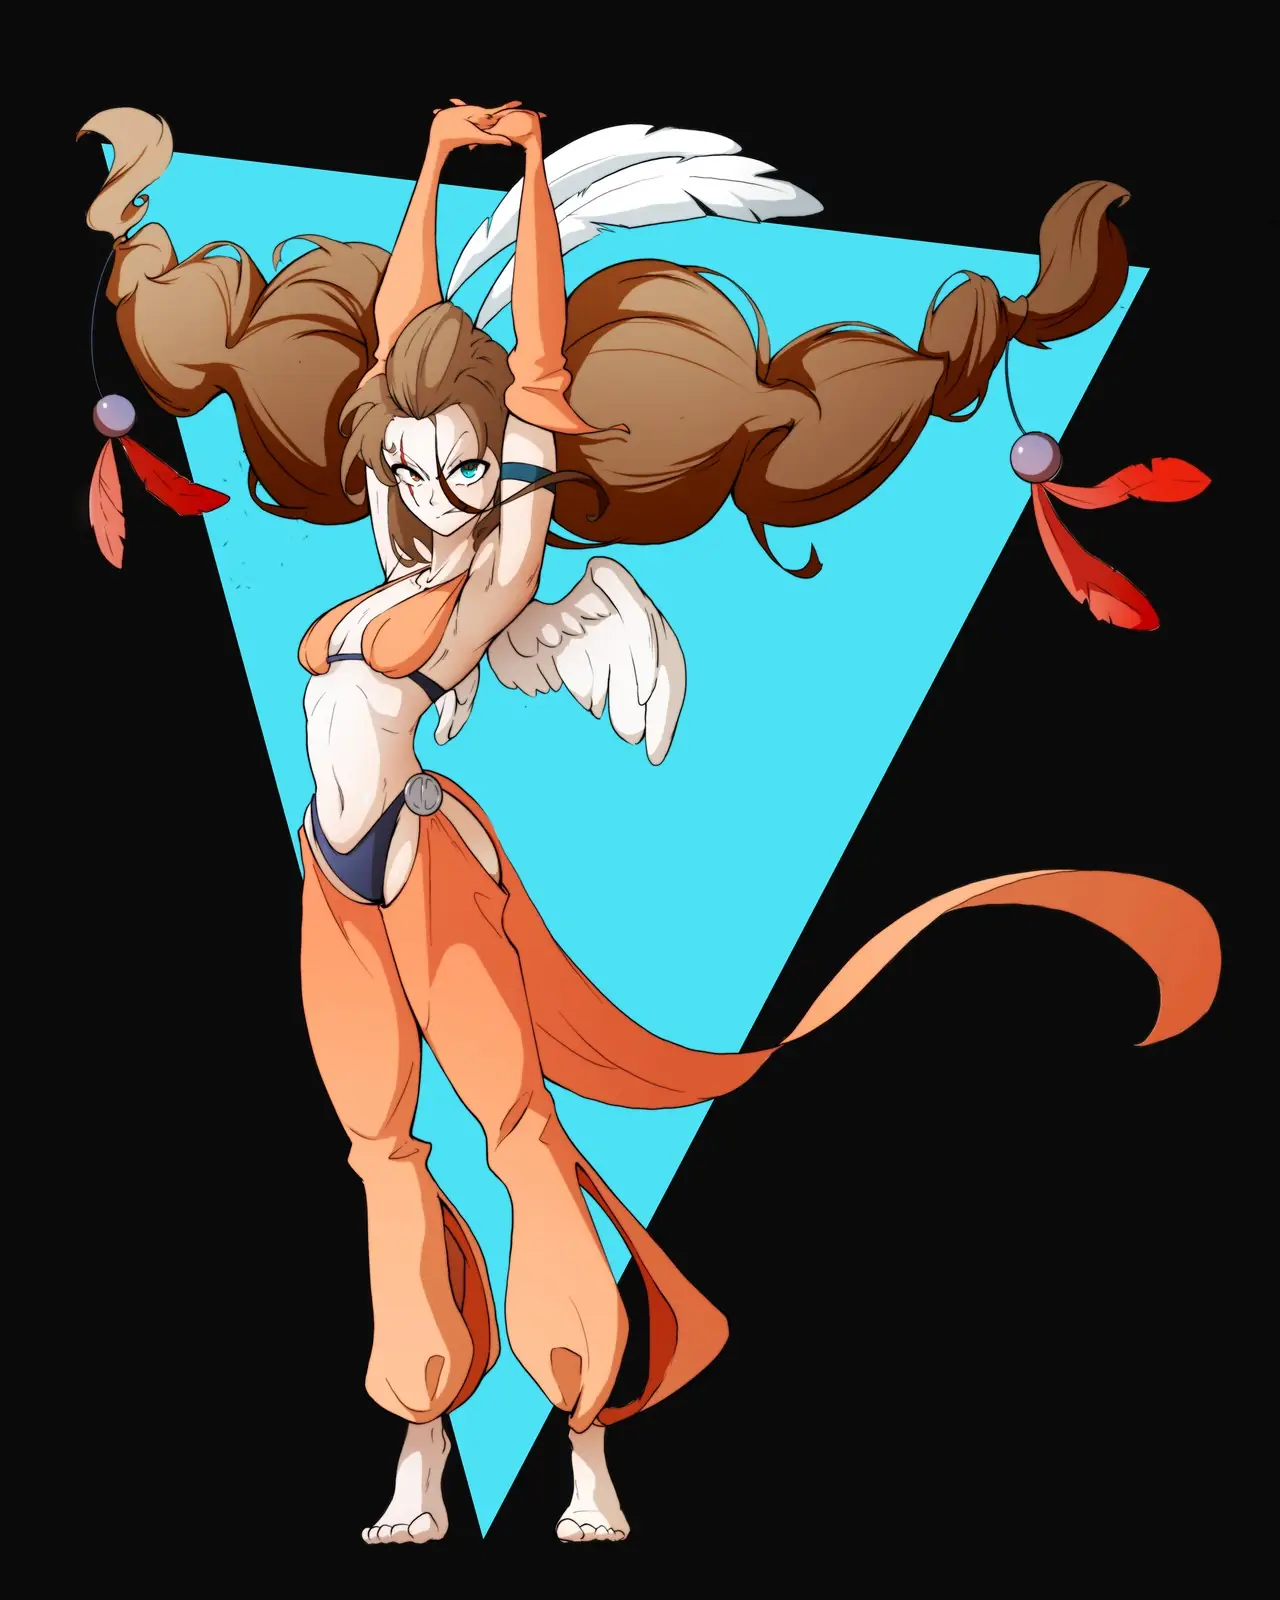
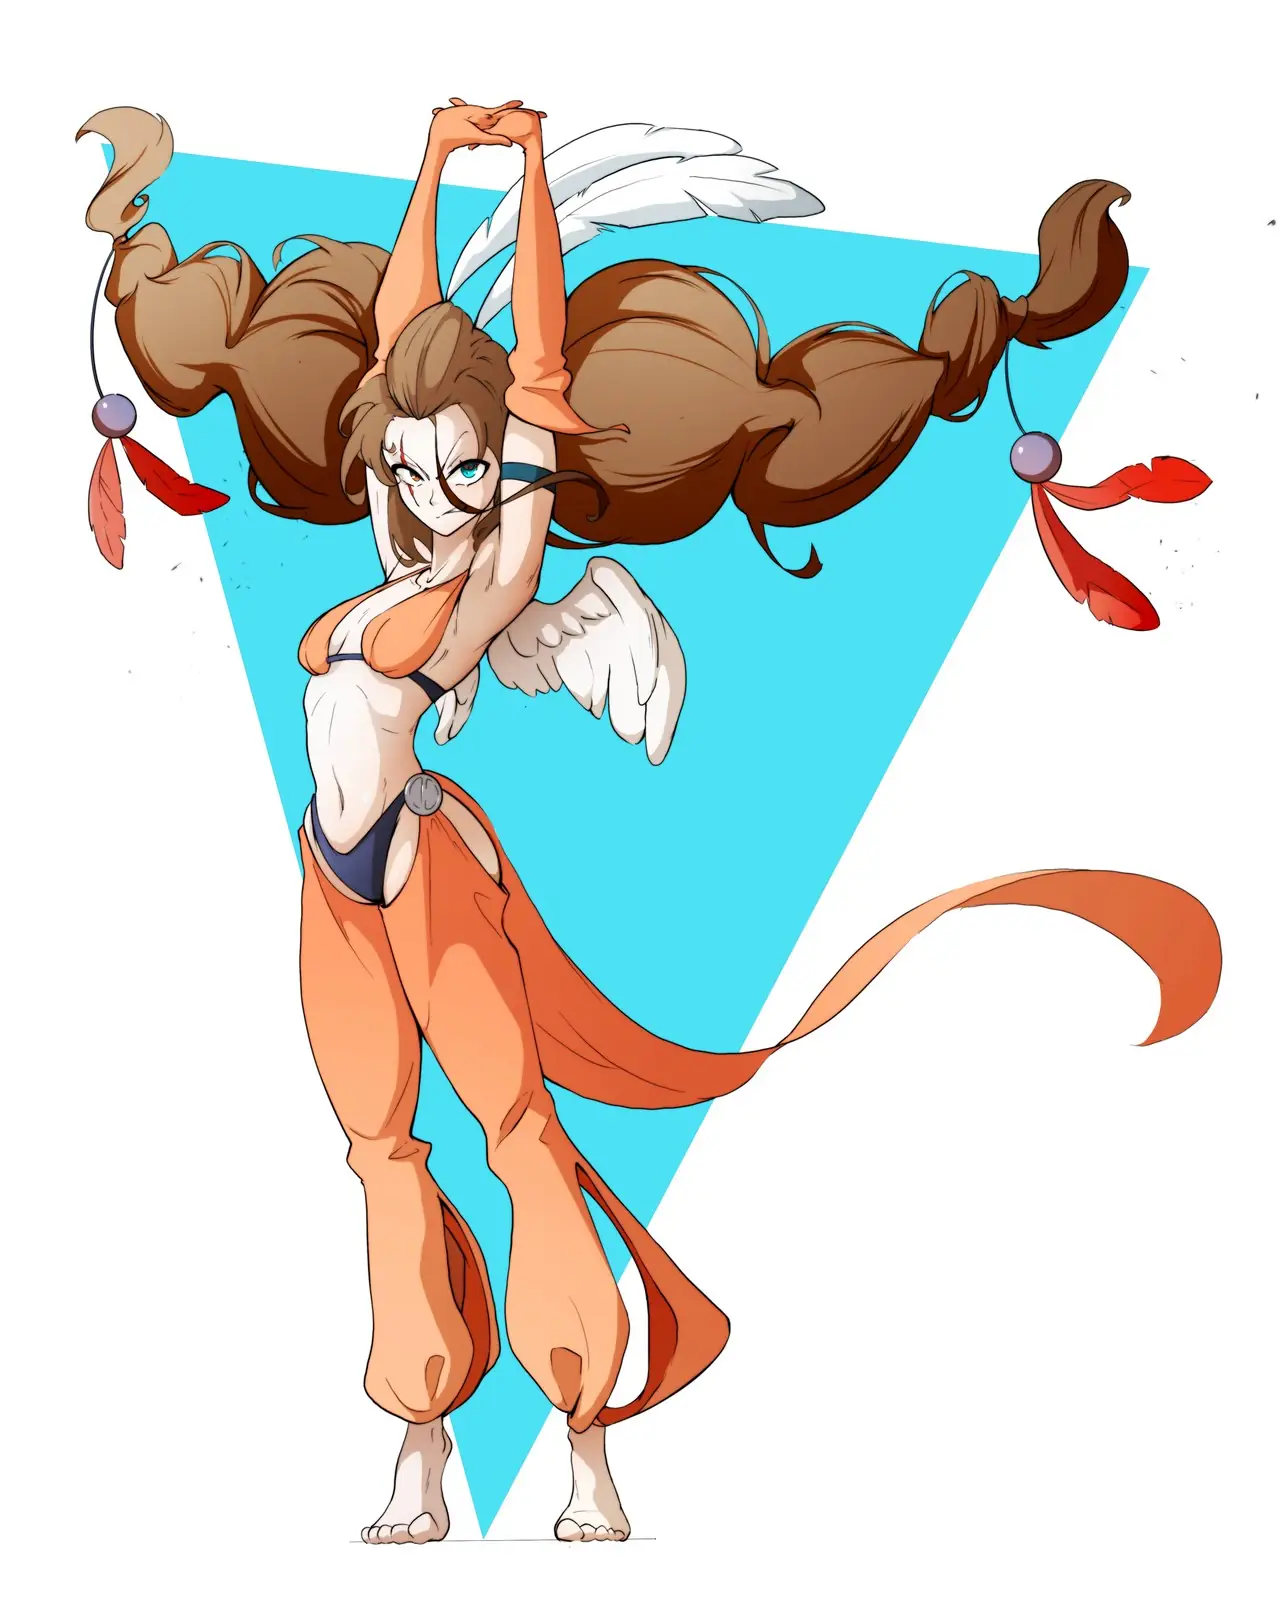
Add Arti, Yakura and Kindo; Angela on white
Three more Survival of Kings characters on the wall (character design)
and in the SoK series on the project page. Angela's image is replaced by
the version on a white background Frede sent. DIMS, PROJ_DIMS and the
wall reserve are regenerated for 36 works.

Claude-Session: https://claude.ai/code/session_01Mrzvp2tutAUGi8cbarh5oA

diff --git a/index.html b/index.html
@@ -141,6 +141,9 @@ const CONFIG = {
     { src: "images/edan.jpg",                  label: "Edan, Survival of Kings",  ratio: "34", cat: "character" },
     { src: "images/lumi.jpg",                  label: "Lumi, Survival of Kings",  ratio: "34", cat: "character" },
     { src: "images/masami.jpg",                label: "Masami, Survival of Kings", ratio: "34", cat: "character" },
+    { src: "images/arti.jpg",                  label: "Arti, Survival of Kings",  ratio: "34", cat: "character" },
+    { src: "images/yakura.jpg",                label: "Yakura, Survival of Kings", ratio: "34", cat: "character" },
+    { src: "images/kindo.jpg",                 label: "Kindo, Survival of Kings", ratio: "34", cat: "character" },
     { src: "images/mira-starborn.jpg",         label: "Mira Starborn",             ratio: "11", cat: "character" },
     { src: "images/collab-mira-final.jpg",     label: "Mira, collab",             ratio: "34", cat: "character" },
     { src: "images/collab.jpg",                label: "Duelo, collab",            ratio: "43", cat: "character" },
@@ -171,8 +174,8 @@ const CONFIG = {
     { src: "images/lucy.jpg",                  label: "Lucy",                      ratio: "11", cat: "fanart" },
   ],
 
-  /* 28 peças do pacote original (era 414 MB → 5,5 MB), mais as 5 de Set 2026:
-     a Angela e quatro personagens do Survival of Kings. */
+  /* 28 peças do pacote original (era 414 MB → 5,5 MB), mais as 8 de Set 2026:
+     a Angela e sete personagens do Survival of Kings. */
 
   projects: [
     /* Os tres projectos ja tem arte. Se algum dia um src ficar "", o cartao volta
@@ -181,7 +184,7 @@ const CONFIG = {
          python3 tools/add-artwork.py <ficheiro> --slug proj-xxx
        e depois poe o caminho no src aqui (e o mesmo no outro ficheiro). */
     { src: "images/proj-sok.jpg",  label: "Survival of Kings", ratio: "34", key: "sok",  plate: "SOK",
-      gallery: ["images/kei.jpg", "images/edan.jpg", "images/lumi.jpg", "images/masami.jpg"] },
+      gallery: ["images/arti.jpg", "images/kei.jpg", "images/edan.jpg", "images/lumi.jpg", "images/masami.jpg", "images/yakura.jpg", "images/kindo.jpg"] },
     { src: "images/proj-tr.jpg",   label: "Tokyo Revengers", ratio: "34", key: "tr",   plate: "TR"  },
     { src: "images/proj-pamp.jpg", label: "PAMP",            ratio: "34", key: "pamp", plate: "P"   },
   ],
@@ -666,7 +669,7 @@ section{padding:clamp(56px,8vw,96px) 0;border-top:1px solid var(--hair)}
    escrevas a mao — junta a arte e corre o script. */
 .wall{
   --wall-w:calc(min(1240px,100vw) - 52px);
-  min-height:calc(9.51 * (var(--wall-w) - 42px) / 4 + 116px);
+  min-height:calc(10.45 * (var(--wall-w) - 42px) / 4 + 126px);
 }
 .frame{
   break-inside:avoid;margin:0 0 14px;display:block;width:100%;
@@ -975,7 +978,7 @@ footer{font-family:var(--f-ui);
 
 /* ================= RESPONSIVE ================= */
 @media (max-width:980px){
-  .wall{column-count:3;min-height:calc(12.68 * (var(--wall-w) - 28px) / 3 + 154px)}
+  .wall{column-count:3;min-height:calc(13.93 * (var(--wall-w) - 28px) / 3 + 168px)}
   .hero-grid{grid-template-columns:1fr;gap:34px;align-items:start}
   /* Numa coluna so nao ha nada a trocar: a ordem do HTML (obra, depois texto)
      e exactamente a que se quer ver. Antes a obra vinha por baixo do titulo,
@@ -993,7 +996,7 @@ footer{font-family:var(--f-ui);
 }
 @media (max-width:620px){
   .bar{min-height:64px}
-  .wall{column-count:2;min-height:calc(19.03 * (var(--wall-w) - 14px) / 2 + 231px)}
+  .wall{column-count:2;min-height:calc(20.9 * (var(--wall-w) - 14px) / 2 + 252px)}
   .links{display:none}
   .knobs{margin-left:auto}
   .nav-toggle{display:block}
@@ -1232,7 +1235,7 @@ const srcOf = s => /^https?:\/\//i.test(s) ? s : (CONFIG.imageBase || '') + s;
 /* image that degrades to a labelled placeholder when the file is missing.
    full=false  → serve images/thumb/… (760px) — grelha, tira, cartões
    full=true   → serve o ficheiro grande (1600px) — só no lightbox            */
-const DIMS = {"aki.jpg":{"w":1280,"h":1600,"tw":608,"th":760},"angela.jpg":{"w":1280,"h":1600,"tw":608,"th":760},"arkevil-final.jpg":{"w":1280,"h":1600,"tw":608,"th":760},"clair.jpg":{"w":1600,"h":1600,"tw":760,"th":760},"collab-mira-final.jpg":{"w":1280,"h":1600,"tw":608,"th":760},"collab.jpg":{"w":1600,"h":1280,"tw":760,"th":608},"dante.jpg":{"w":1600,"h":1600,"tw":760,"th":760},"edan.jpg":{"w":1280,"h":1600,"tw":608,"th":760},"estudo-luz.jpg":{"w":1280,"h":1600,"tw":608,"th":760},"even-yeager.jpg":{"w":1280,"h":1600,"tw":608,"th":760},"final-aot-season-4.jpg":{"w":1280,"h":1600,"tw":608,"th":760},"geisha.jpg":{"w":1280,"h":1600,"tw":608,"th":760},"ilustracao-sem-titulo-1.jpg":{"w":1600,"h":1600,"tw":760,"th":760},"ilustracao-sem-titulo.jpg":{"w":1600,"h":1067,"tw":760,"th":507},"italy.jpg":{"w":1280,"h":1600,"tw":608,"th":760},"kei.jpg":{"w":1280,"h":1600,"tw":608,"th":760},"kon.jpg":{"w":1600,"h":1600,"tw":760,"th":760},"lucy.jpg":{"w":1600,"h":1600,"tw":760,"th":760},"lumi.jpg":{"w":1280,"h":1600,"tw":608,"th":760},"makima.jpg":{"w":1280,"h":1600,"tw":608,"th":760},"masami.jpg":{"w":1280,"h":1600,"tw":608,"th":760},"mira-starborn.jpg":{"w":1600,"h":1600,"tw":760,"th":760},"nami-30x40.jpg":{"w":1200,"h":1600,"tw":570,"th":760},"oc-1.jpg":{"w":1600,"h":1600,"tw":760,"th":760},"oc-2.jpg":{"w":1280,"h":1600,"tw":608,"th":760},"oc.jpg":{"w":1280,"h":1600,"tw":608,"th":760},"pochita.jpg":{"w":1600,"h":1600,"tw":760,"th":760},"proj-pamp.jpg":{"w":1553,"h":1600,"tw":738,"th":760},"proj-sok.jpg":{"w":1280,"h":1600,"tw":608,"th":760},"proj-tr.jpg":{"w":1066,"h":1600,"tw":507,"th":760},"shocked.jpg":{"w":1280,"h":1600,"tw":608,"th":760},"silen.jpg":{"w":1280,"h":1600,"tw":608,"th":760},"spain.jpg":{"w":1280,"h":1600,"tw":608,"th":760},"surpresa.jpg":{"w":1600,"h":1600,"tw":760,"th":760},"the-witch.jpg":{"w":1280,"h":1600,"tw":608,"th":760},"yuta-fanart.jpg":{"w":1280,"h":1600,"tw":608,"th":760}};
+const DIMS = {"aki.jpg":{"w":1280,"h":1600,"tw":608,"th":760},"angela.jpg":{"w":1280,"h":1600,"tw":608,"th":760},"arkevil-final.jpg":{"w":1280,"h":1600,"tw":608,"th":760},"arti.jpg":{"w":1280,"h":1600,"tw":608,"th":760},"clair.jpg":{"w":1600,"h":1600,"tw":760,"th":760},"collab-mira-final.jpg":{"w":1280,"h":1600,"tw":608,"th":760},"collab.jpg":{"w":1600,"h":1280,"tw":760,"th":608},"dante.jpg":{"w":1600,"h":1600,"tw":760,"th":760},"edan.jpg":{"w":1280,"h":1600,"tw":608,"th":760},"estudo-luz.jpg":{"w":1280,"h":1600,"tw":608,"th":760},"even-yeager.jpg":{"w":1280,"h":1600,"tw":608,"th":760},"final-aot-season-4.jpg":{"w":1280,"h":1600,"tw":608,"th":760},"geisha.jpg":{"w":1280,"h":1600,"tw":608,"th":760},"ilustracao-sem-titulo-1.jpg":{"w":1600,"h":1600,"tw":760,"th":760},"ilustracao-sem-titulo.jpg":{"w":1600,"h":1067,"tw":760,"th":507},"italy.jpg":{"w":1280,"h":1600,"tw":608,"th":760},"kei.jpg":{"w":1280,"h":1600,"tw":608,"th":760},"kindo.jpg":{"w":1280,"h":1600,"tw":608,"th":760},"kon.jpg":{"w":1600,"h":1600,"tw":760,"th":760},"lucy.jpg":{"w":1600,"h":1600,"tw":760,"th":760},"lumi.jpg":{"w":1280,"h":1600,"tw":608,"th":760},"makima.jpg":{"w":1280,"h":1600,"tw":608,"th":760},"masami.jpg":{"w":1280,"h":1600,"tw":608,"th":760},"mira-starborn.jpg":{"w":1600,"h":1600,"tw":760,"th":760},"nami-30x40.jpg":{"w":1200,"h":1600,"tw":570,"th":760},"oc-1.jpg":{"w":1600,"h":1600,"tw":760,"th":760},"oc-2.jpg":{"w":1280,"h":1600,"tw":608,"th":760},"oc.jpg":{"w":1280,"h":1600,"tw":608,"th":760},"pochita.jpg":{"w":1600,"h":1600,"tw":760,"th":760},"proj-pamp.jpg":{"w":1553,"h":1600,"tw":738,"th":760},"proj-sok.jpg":{"w":1280,"h":1600,"tw":608,"th":760},"proj-tr.jpg":{"w":1066,"h":1600,"tw":507,"th":760},"shocked.jpg":{"w":1280,"h":1600,"tw":608,"th":760},"silen.jpg":{"w":1280,"h":1600,"tw":608,"th":760},"spain.jpg":{"w":1280,"h":1600,"tw":608,"th":760},"surpresa.jpg":{"w":1600,"h":1600,"tw":760,"th":760},"the-witch.jpg":{"w":1280,"h":1600,"tw":608,"th":760},"yakura.jpg":{"w":1280,"h":1600,"tw":608,"th":760},"yuta-fanart.jpg":{"w":1280,"h":1600,"tw":608,"th":760}};
 /* Proporcao a usar na moldura. Sai do mapa DIMS, ou seja dos pixeis reais do
    ficheiro. O campo `ratio` do CONFIG fica so como rede: arte nova que ainda
    nao passou pelo tools/dims.py nao tem entrada em DIMS e cai no molde antigo. */

diff --git a/projeto.html b/projeto.html
@@ -62,7 +62,7 @@ const CONFIG = {
                TODAS estas imagens sao geradas de la. */
   projects: [
     { src: "images/proj-sok.jpg", label: "Survival of Kings", ratio: "34", key: "sok", plate: "SOK",
-      gallery: ["images/kei.jpg", "images/edan.jpg", "images/lumi.jpg", "images/masami.jpg"] },
+      gallery: ["images/arti.jpg", "images/kei.jpg", "images/edan.jpg", "images/lumi.jpg", "images/masami.jpg", "images/yakura.jpg", "images/kindo.jpg"] },
     { src: "images/proj-tr.jpg", label: "Tokyo Revengers", ratio: "34", key: "tr", plate: "TR" },
     { src: "images/proj-pamp.jpg", label: "PAMP", ratio: "34", key: "pamp", plate: "P" },
   ],
@@ -208,10 +208,13 @@ const WEBP_OK = (() => {
    escrevas estes numeros a mao. */
 const PROJ_DIMS = {
   "proj-sok.jpg":  {w:1280, h:1600},
+  "arti.jpg":      {w:1280, h:1600},
   "kei.jpg":       {w:1280, h:1600},
   "edan.jpg":      {w:1280, h:1600},
   "lumi.jpg":      {w:1280, h:1600},
   "masami.jpg":    {w:1280, h:1600},
+  "yakura.jpg":    {w:1280, h:1600},
+  "kindo.jpg":     {w:1280, h:1600},
   "proj-tr.jpg":   {w:1066, h:1600},
   "proj-pamp.jpg": {w:1553, h:1600},
 };

diff --git a/CLAUDE.md b/CLAUDE.md
@@ -142,9 +142,9 @@ this repo or the answer is a dozen lines of vanilla code.
 ## 4. Asset management
 
 ```
-images/           36 full-size JPEG (1600px longest side: 33 artworks + 3 project
-                  covers) + og-card.jpg, and 33 WebP
-images/thumb/     36 thumbnails (760px) + 35 WebP
+images/           39 full-size JPEG (1600px longest side: 36 artworks + 3 project
+                  covers) + og-card.jpg, and a WebP for most (see below)
+images/thumb/     39 thumbnails (760px) + WebP
 ```
 
 Four files have no WebP because WebP came out larger than the JPEG. That is
@@ -186,7 +186,7 @@ was **CLS 0.96**. The fix is reserving the space in CSS up front:
 
 The wall's reserve is a formula, not a constant, because the right height
 changes with viewport width: the sum of every piece's height-over-width ratio
-(**38.0** for these 33) times one column's width, over the column count, plus
+(**41.8** for these 36) times one column's width, over the column count, plus
 margins. Aim **1-5% under** the real height. Under-reserving settles by a few
 pixels; over-reserving opens a gap that closes again, which counts just the
 same. Result after all of it: 0.006 throttled, 0 unthrottled.
@@ -399,7 +399,7 @@ A Figma file will not know about the constraints in §9. Those outrank it.
 These are Frede's decisions. They outrank every design skill, every Figma file,
 and every suggestion in this document.
 
-1. **Fan art is never sold.** 10 of the 33 works are fan art (Chainsaw Man,
+1. **Fan art is never sold.** 10 of the 36 works are fan art (Chainsaw Man,
    Attack on Titan, Jujutsu Kaisen, One Piece) and carry `cat:"fanart"`. They may
    be displayed, never sold as prints or merch. Any commerce affordance filters
    to `character` and `sketches`. The ImageGallery JSON-LD deliberately attaches
